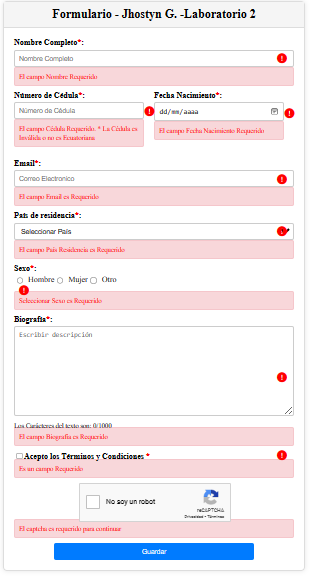
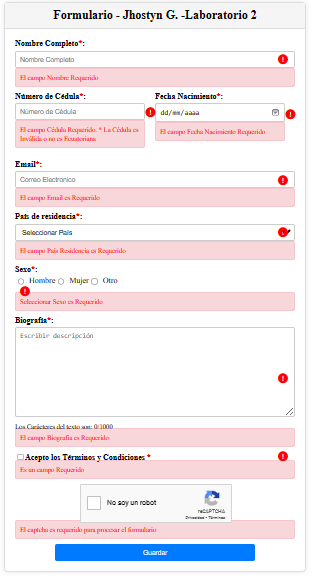
Arreglo

Changed region(s): [[0.0, 0.0, 0.9714, 0.9931]]

diff --git a/src/app/formulario/formulario.component.ts b/src/app/formulario/formulario.component.ts
@@ -32,15 +32,10 @@ export class FormularioComponent implements OnInit {
       sexo: new FormControl('', [Validators.required]),
       biografia: new FormControl('', [Validators.required, Validators.maxLength(1000), Validators.minLength(100)]),
       termscondiciones: new FormControl('', [Validators.required]),
-      captcha: new FormControl('', [Validators.required, this.ValidarcaptCha])
+      captcha: new FormControl('', [Validators.required])
     });
   }
 
-  //Validacion de Captcha
-  ValidarcaptCha(control: AbstractControl) {
-    const veriCaptcha = control.value;
-    return veriCaptcha ? null : { invalidocp: true };
-  }
 
   //validacion de cedula Ecuatoriana 
   validacionIDEcuatoriana(control: AbstractControl) {

diff --git a/src/app/formulario/formulario.component.html b/src/app/formulario/formulario.component.html
@@ -187,9 +187,7 @@
                 </div>
                 <div class="fondo" *ngIf="form.get('captcha')?.errors && form.get('captcha')?.touched">
                     <small *ngIf="form.get('captcha')?.hasError('required')">El captcha es requerido para
-                        continuar</small>
-                    <small *ngIf="form.get('captcha')?.value && form.get('captcha')?.hasError('invalidocp')">El captcha
-                        no es válido</small>
+                        procesar el formulario</small>
                 </div>
             </div>
 
